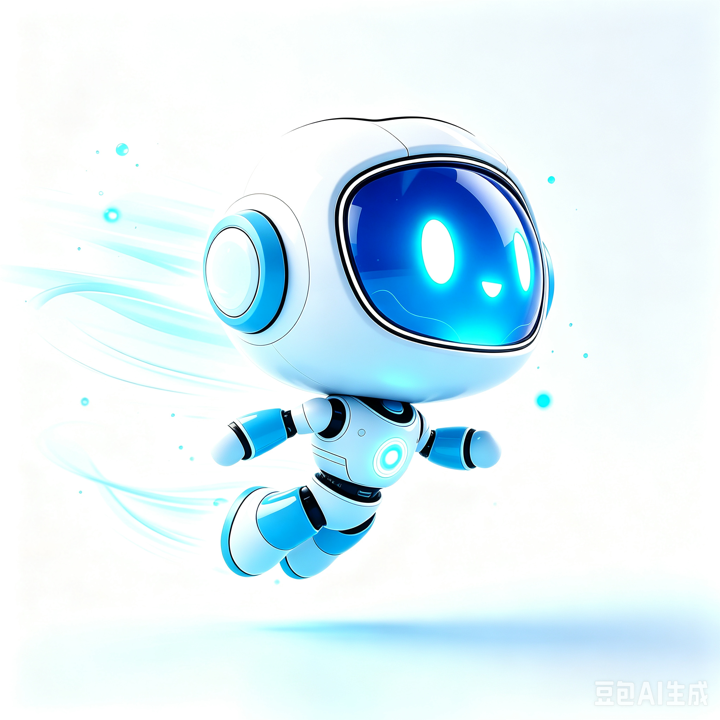
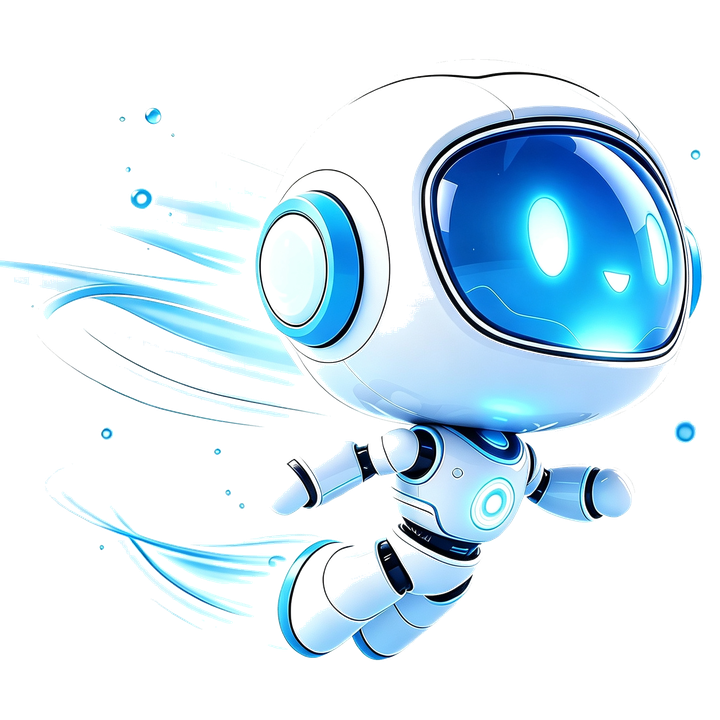
Refine login hero robot

diff --git a/frontend/src/modules/auth/pages/LoginPage.css b/frontend/src/modules/auth/pages/LoginPage.css
@@ -17,67 +17,32 @@
 
 .login-hero-headline {
   display: grid;
-  grid-template-columns: 128px minmax(0, 1fr);
+  grid-template-columns: 96px minmax(0, 1fr);
   align-items: center;
-  gap: 20px;
+  gap: 18px;
 }
 
 .login-hero-robot {
   position: relative;
-  width: 128px;
+  width: 96px;
   aspect-ratio: 1;
-  overflow: hidden;
-  border: 1px solid rgba(213, 232, 255, 0.6);
-  border-radius: 24px;
-  background:
-    linear-gradient(135deg, rgba(255, 255, 255, 0.8), rgba(223, 242, 255, 0.44)),
-    rgba(255, 255, 255, 0.34);
-  box-shadow:
-    0 22px 44px rgba(43, 111, 242, 0.12),
-    inset 0 1px 0 rgba(255, 255, 255, 0.82);
-  backdrop-filter: blur(16px) saturate(1.08);
-  -webkit-backdrop-filter: blur(16px) saturate(1.08);
+  overflow: visible;
+  filter: drop-shadow(0 18px 28px rgba(43, 111, 242, 0.18));
 }
 
 .login-hero-robot::before,
 .login-hero-robot::after {
-  position: absolute;
-  content: "";
-  pointer-events: none;
-}
-
-.login-hero-robot::before {
-  inset: 0;
-  z-index: 2;
-  background:
-    radial-gradient(circle at 72% 28%, rgba(255, 255, 255, 0.42), transparent 34%),
-    linear-gradient(90deg, rgba(255, 255, 255, 0.5), transparent 42%);
-  mix-blend-mode: screen;
-}
-
-.login-hero-robot::after {
-  inset: -1px;
-  z-index: 3;
-  border-radius: inherit;
-  box-shadow: inset 0 0 28px rgba(246, 251, 255, 0.9);
+  display: none;
 }
 
 .login-hero-robot img {
   position: absolute;
-  inset: -12%;
-  width: 124%;
-  height: 124%;
-  object-fit: cover;
-  object-position: 50% 42%;
+  inset: -14%;
+  width: 128%;
+  height: 128%;
+  object-fit: contain;
+  object-position: center;
   filter: saturate(1.06) contrast(1.02);
-  mask-image:
-    linear-gradient(90deg, transparent 0%, rgba(0, 0, 0, 0.7) 14%, #000 30%, #000 82%, transparent 100%),
-    linear-gradient(180deg, transparent 0%, rgba(0, 0, 0, 0.78) 12%, #000 28%, #000 78%, transparent 100%);
-  mask-composite: intersect;
-  -webkit-mask-image:
-    linear-gradient(90deg, transparent 0%, rgba(0, 0, 0, 0.7) 14%, #000 30%, #000 82%, transparent 100%),
-    linear-gradient(180deg, transparent 0%, rgba(0, 0, 0, 0.78) 12%, #000 28%, #000 78%, transparent 100%);
-  -webkit-mask-composite: source-in;
 }
 
 .login-hero-title.ant-typography {
@@ -92,7 +57,7 @@
 
 .login-hero-copy {
   max-width: 600px;
-  margin: 22px 0 0;
+  margin: 22px 0 0 114px;
   color: #52627a;
   font-size: 15px;
   line-height: 1.9;
@@ -104,7 +69,7 @@
   display: grid;
   grid-template-columns: repeat(3, minmax(0, 1fr));
   gap: 12px;
-  margin-top: 30px;
+  margin: 30px 0 0 114px;
 }
 
 .login-signal-grid > span {
@@ -322,13 +287,17 @@
 
 @media (max-width: 1180px) {
   .login-hero-headline {
-    grid-template-columns: 112px minmax(0, 1fr);
+    grid-template-columns: 88px minmax(0, 1fr);
     gap: 16px;
   }
 
   .login-hero-robot {
-    width: 112px;
-    border-radius: 22px;
+    width: 88px;
+  }
+
+  .login-hero-copy,
+  .login-signal-grid {
+    margin-left: 104px;
   }
 }
 